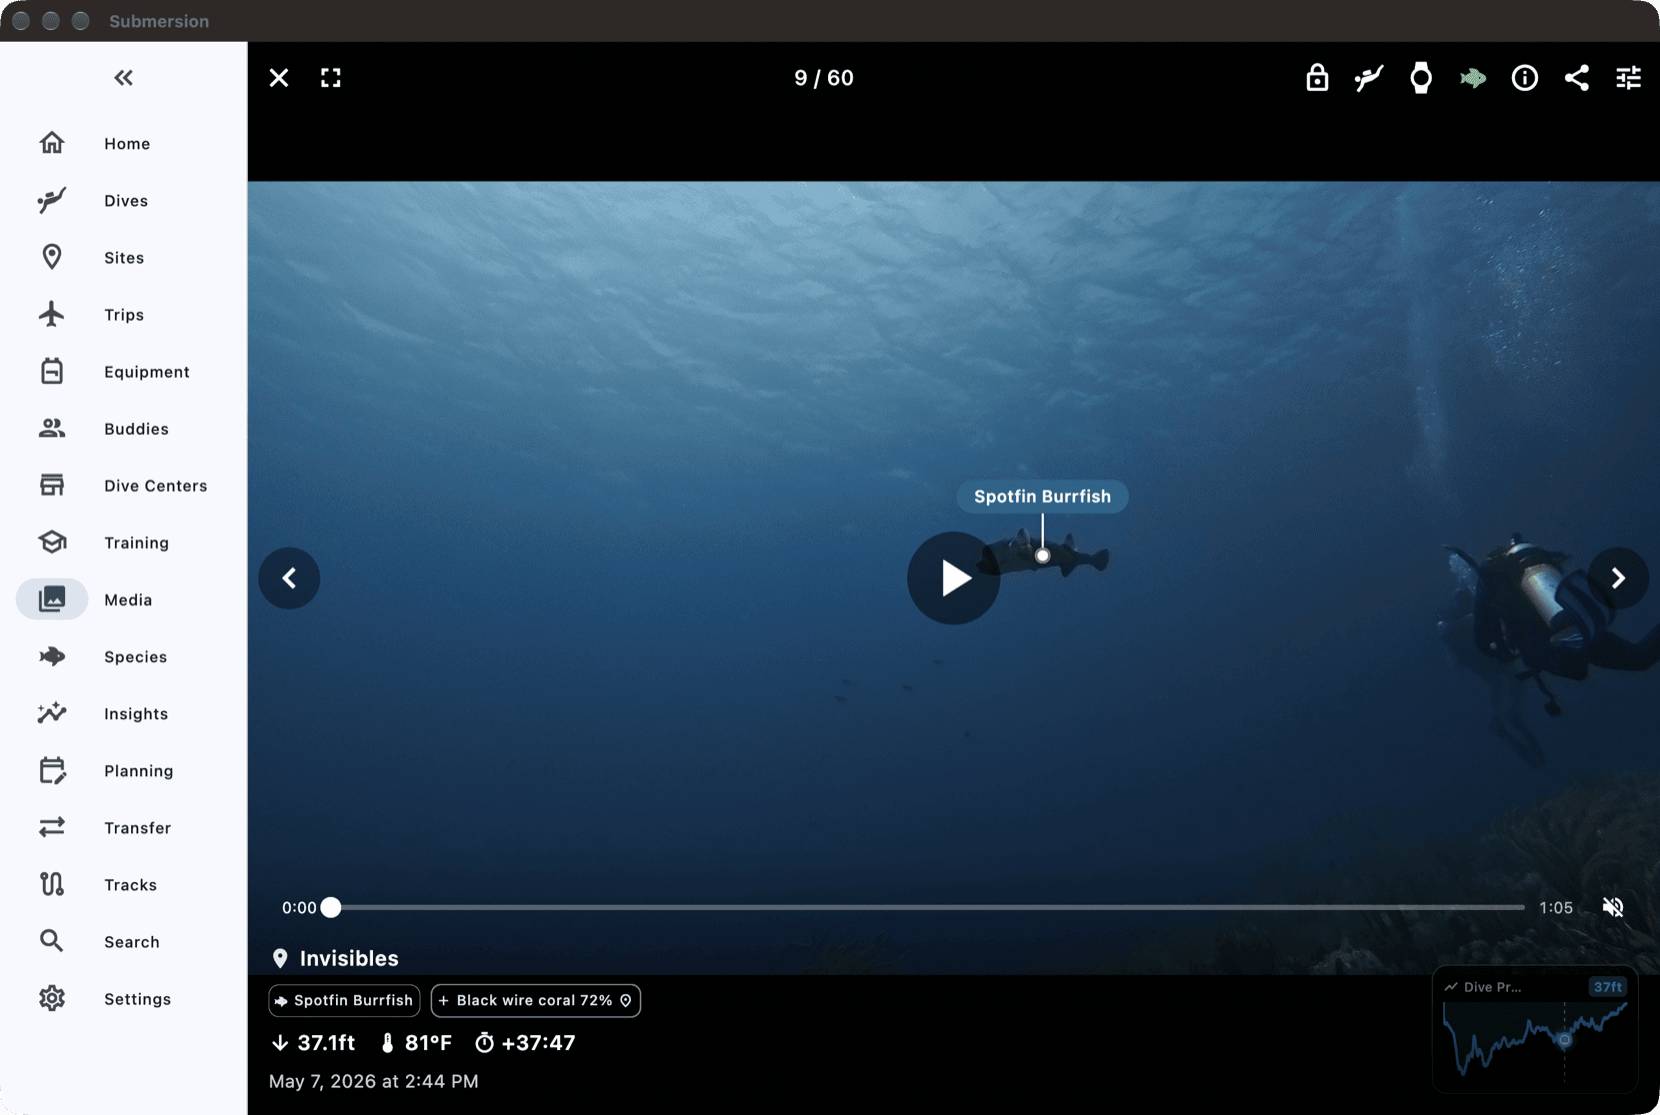
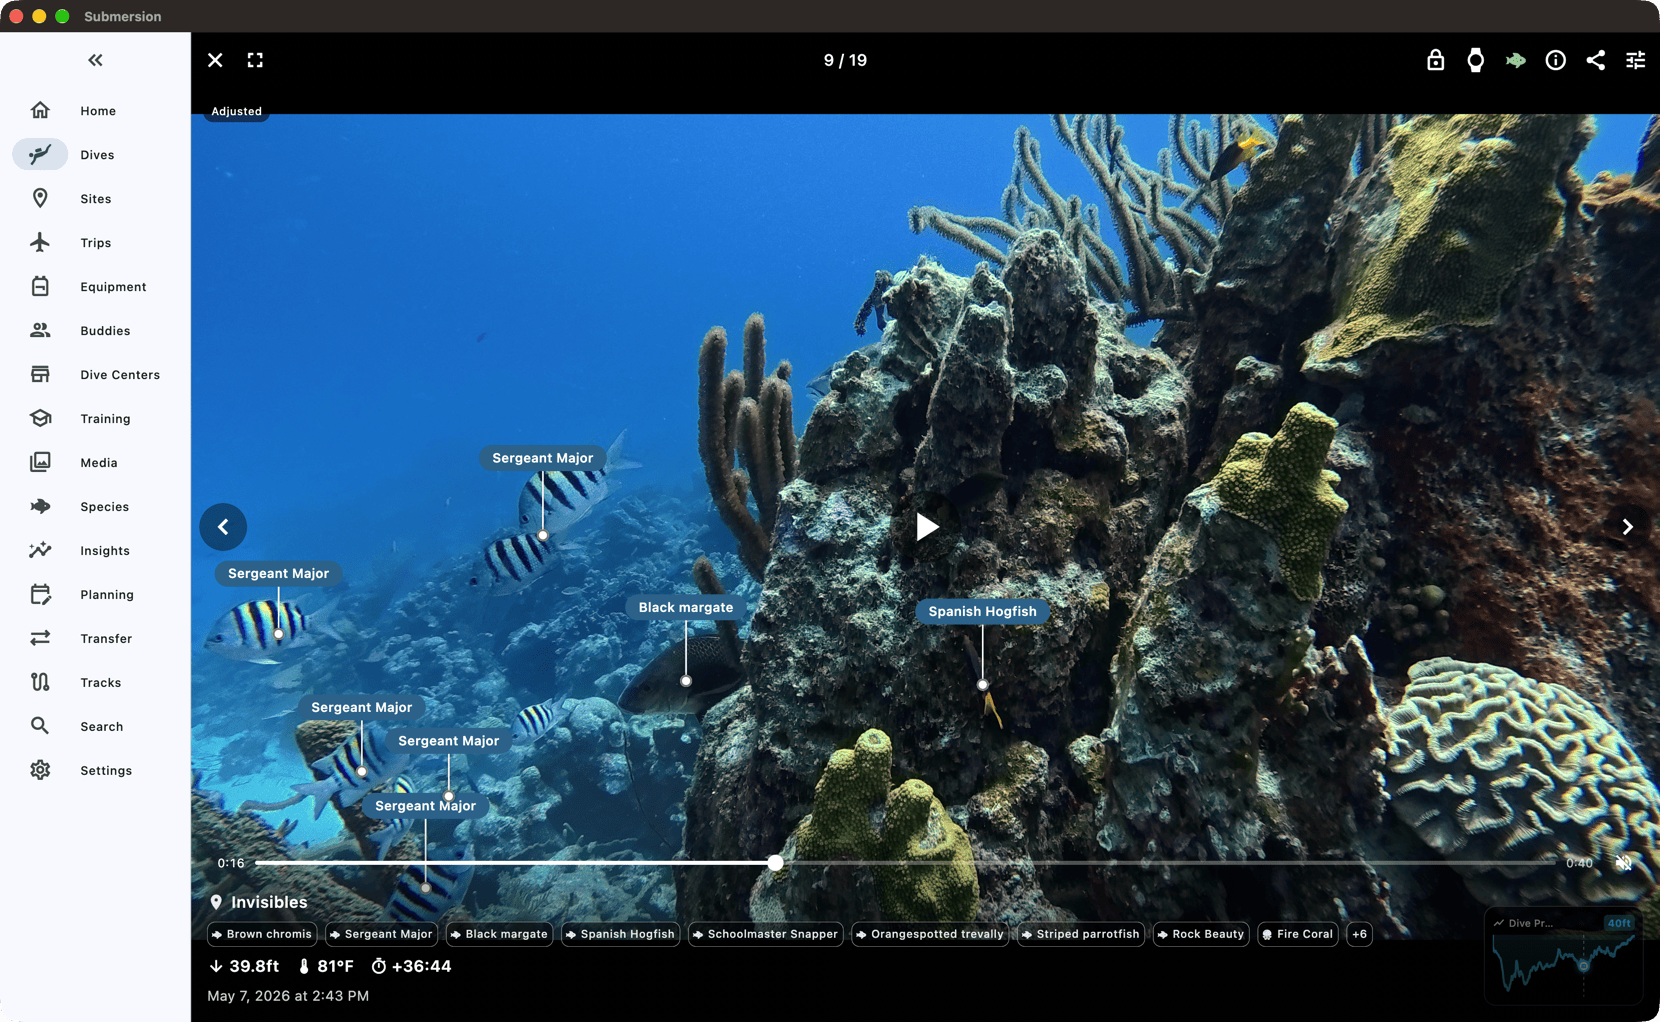
docs(releases): use a busier reef frame for the species identification shot
Swaps the v1.8.5.9757 species identification screenshot for item 9 of
the Invisibles dive at 0:16, where eight fish carry name pills.

diff --git a/docs/releases/v1.8.5.9757.md b/docs/releases/v1.8.5.9757.md
@@ -12,7 +12,7 @@ Submersion can now suggest which species are in your photos and videos, entirely
 
 Turn it on in Settings > Data > Photos and videos > Species identification, from the new setup wizard step, or from the download offer on Home and the Species page. It downloads a model pack of about 633 MB, and nothing leaves the device. It runs on iPhone, iPad and Mac with Core ML, and on Android, Windows and Linux with ONNX Runtime (Windows uses a GPU or NPU through Windows ML where it can). Phones and tablets need about 8 GB of memory, and Linux identifies photos only.
 
-![A paused reef video with a Spotfin Burrfish name pill on the fish and a Black wire coral suggestion below](https://raw.githubusercontent.com/submersion-app/submersion/main/docs/releases/images/v1.8.5.9757/02-species-id-video.png)
+![A paused reef video with name pills on six Sergeant Majors, a Black margate and a Spanish Hogfish, and the dive's species listed below](https://raw.githubusercontent.com/submersion-app/submersion/main/docs/releases/images/v1.8.5.9757/02-species-id-video.png)
 
 ### A new Home dashboard
 
